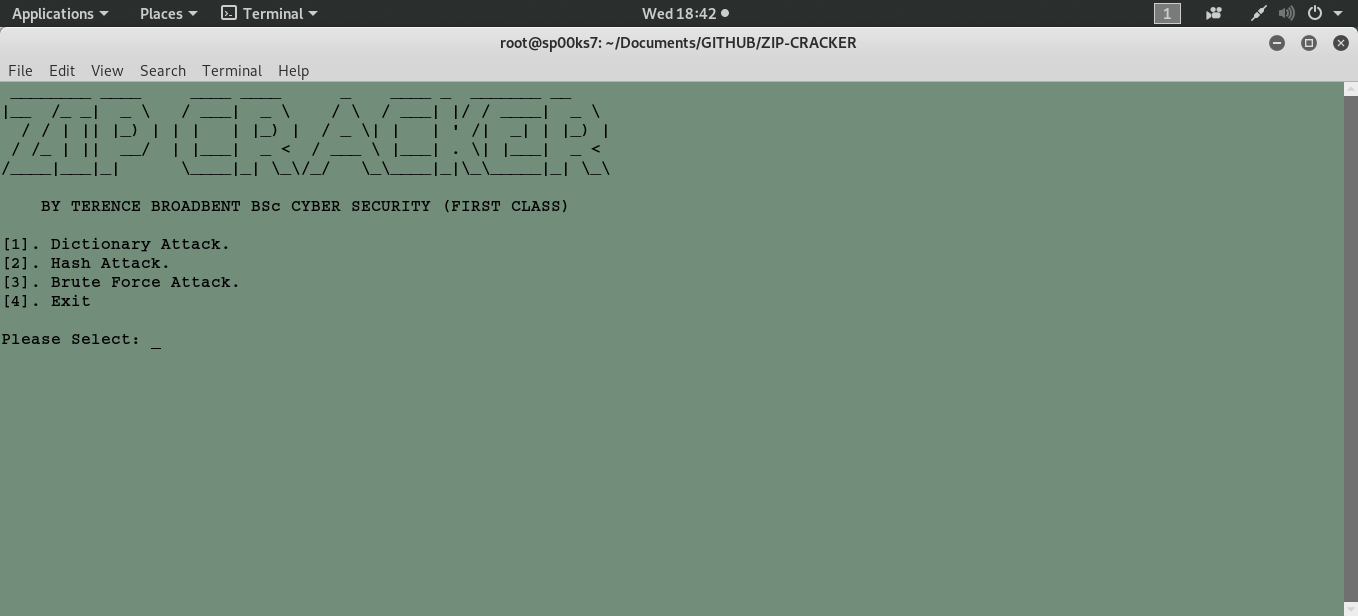
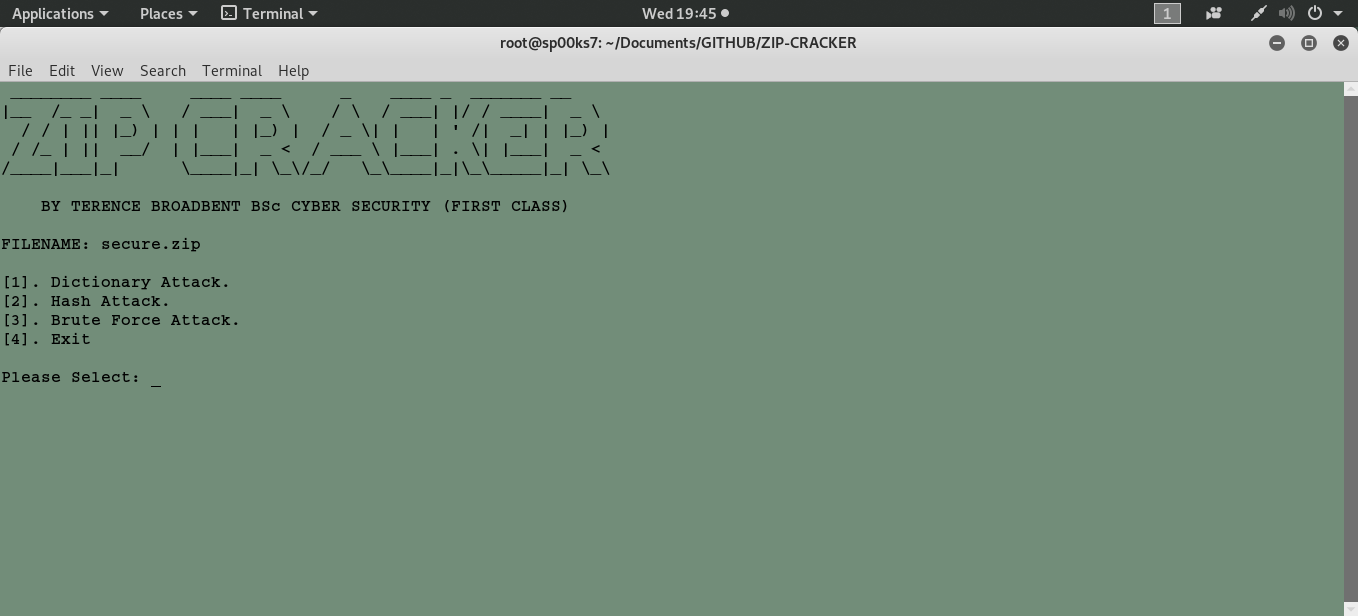
changes

Changed region(s): [[0.0, 0.3701, 0.1856, 0.5552], [0.0, 0.586, 0.0928, 0.6169], [0.4948, 0.0, 0.5258, 0.0308]]

diff --git a/zip-cracker.py b/zip-cracker.py
@@ -76,16 +76,17 @@ if installed == False:
 # Modified: N/A                                                               
 # -------------------------------------------------------------------------------------
 
-os.system("clear")
-
-print " ________ ____     ____ ____      _    ____ _  _______ __     "
-print "|__  /_ _|  _ \   / ___|  _ \    / \  / ___| |/ / ____|  _ \  "
-print "  / / | || |_) | | |   | |_) |  / _ \| |   | ' /|  _| | |_) | "
-print " / /_ | ||  __/  | |___|  _ <  / ___ \ |___| . \| |___|  _ <  "
-print "/____|___|_|      \____|_| \_\/_/   \_\____|_|\_\_____|_| \_\ "
-print "                                                              "
-print "    BY TERENCE BROADBENT BSc CYBER SECURITY (FIRST CLASS)     "
-print "                                                              "
+def header ():
+   os.system("clear")
+   print " ________ ____     ____ ____      _    ____ _  _______ __     "
+   print "|__  /_ _|  _ \   / ___|  _ \    / \  / ___| |/ / ____|  _ \  "
+   print "  / / | || |_) | | |   | |_) |  / _ \| |   | ' /|  _| | |_) | "
+   print " / /_ | ||  __/  | |___|  _ <  / ___ \ |___| . \| |___|  _ <  "
+   print "/____|___|_|      \____|_| \_\/_/   \_\____|_|\_\_____|_| \_\ "
+   print "                                                              "
+   print "    BY TERENCE BROADBENT BSc CYBER SECURITY (FIRST CLASS)     "
+   print "                                                              "
+   print "FILENAME: " + filename + ".\n"
 
 # -------------------------------------------------------------------------------------
 # AUTHOR  : Terence Broadbent                                                    
@@ -99,14 +100,16 @@ menu = {}
 menu['[1].']="Dictionary Attack."
 menu['[2].']="Hash Attack."
 menu['[3].']="Brute Force Attack."
-menu['[4].']="Exit"
+menu['[4].']="Exit."
 
 while True: 
+   header()
    options=menu.keys()
    options.sort()
    for entry in options: 
       print entry, menu[entry]
    selection=raw_input("\nPlease Select: ")
+   print ""
 
 # ------------------------------------------------------------------------------------- 
 # AUTHOR  : Terence Broadbent                                                    
@@ -117,20 +120,21 @@ while True:
 # -------------------------------------------------------------------------------------
 
    if selection =='1':
-      print "Crack Selected    : Dictionary attack..."
-      dictionary = "/usr/share/wordlists/rockyou.txt"
+      print "Crack Selected    : Dictionary attack."
+      dictionary = "/usr/share/wordlists/rockyou.txt"		# change as required
       if os.path.isfile(dictionary):
-           print "Using Dictionary  : " + dictionary + "..."
+         print "Crack Dictionary  : " + dictionary + "."
       else:
-          print "System Error      : Dictionary not found..."
-          exit(True)
+         print "System Error      : Dictionary not found."
+         exit(True)
+      print "Crack Status      : Cracking file."
       os.system("fcrackzip -v -D -u -p " + dictionary + " " + filename + " > Answer.txt")
       os.system("awk '/pw ==/{print $NF}' Answer.txt > Password.txt")
       password = open("Password.txt").readline().rstrip()
       if password == "":	
-          print "Crack Status      : Dictionary exhausted...\n"
+         print "Crack Status      : Dictionary exhausted.\n"
       else:      
-          print "File Password     : " + password
+         print "Cracked Password  : " + password + ".\n"
       os.remove('Answer.txt')
       os.remove('Password.txt')
       exit (False)
@@ -144,21 +148,23 @@ while True:
 # -------------------------------------------------------------------------------------
 
    elif selection == '2':
-      print "Crack Selected    : Hash attack..."
-      print "Crack Status      : Creating hash file..."
+      print "Crack Selected    : Hash attack"
+      print "Crack Status      : Creating hash."
       os.system("zip2john " + filename + " > hash.txt 2>&1")
       os.system("sed 1d hash.txt > hash2.txt")
       os.remove('hash.txt')
-      print "Crack Status      : Cracking hash..."
-      os.system("john hash2.txt > dump.txt 2>&1")
-      os.system("john --show hash2.txt > dump.txt")
+      print "Crack Status      : Comparing hash values."
+      os.system("john hash2.txt --pot=pass.txt > dump.txt 2>&1")
+      password = open("pass.txt").readline()
+      a,b =  password.split(':')
+      b = b.replace('\n','')
+      if password == "":
+         print "Crack Status      : Hash crack exhausted.\n"
+      else:
+         print "Cracked Password  : " + b + "."
       os.remove('hash2.txt')
-      password = open("dump.txt").readline()
-      password = password.replace(filename,'')
-      password = password.replace(':',' ')
-      password = password.replace('/','')
-      print "File Password     : " + password
       os.remove('dump.txt')
+      os.remove('pass.txt')
       exit (False)
 
 # ------------------------------------------------------------------------------------- 
@@ -170,26 +176,24 @@ while True:
 # -------------------------------------------------------------------------------------
 
    elif selection == '3':
-      cracked = False
-      print "Crack Selected    : Brute force attack"
-      print "Crack Status      : Conducting numeric attack first - please wait..."
+      print "Crack Selected    : Brute force attack (1-8 characters)."
+      print "Crack Status      : Conducting numeric attack first."
       os.system("fcrackzip -c 1 -m zip1 -l 1-8 -u " + filename + " > Answer.txt")
       os.system("awk '/pw ==/{print $NF}' Answer.txt > Password.txt")
       password = open("Password.txt").readline().rstrip()
       if password == "":	
-         print "Crack Status      : Numeric bruteforce exhausted..."
+         print "Crack Status      : Numeric bruteforce exhausted."
       else:      
-         print "Found Password    : " + password
-         cracked = True
-      if cracked == False:
-         print "Crack Status      : Now trying alphanumeric - please wait..."
+         print "Cracked Password  : " + password + ".\n"
+      if password == "":
+         print "Crack Status      : Now trying alphanumeric"
          os.system("fcrackzip -m zip1 -l 1-8 -u " + filename + " > Answer.txt")
          os.system("awk '/pw ==/{print $NF}' Answer.txt > Password.txt")
          password = open("Password.txt").readline().rstrip()
          if password == "":	
-            print "Crack Status      : Alphanumeric bruteforce exhausted..."
+            print "Crack Status      : Alphanumeric bruteforce exhausted.\n"
          else:      
-            print "Found Password    : " + password
+            print "Cracked Password  : " + password + ".\n"
       os.remove('Answer.txt')
       os.remove('Password.txt')
       exit (False)
@@ -204,16 +208,4 @@ while True:
 
    elif selection == '4': 
       exit(False)
-
-# ------------------------------------------------------------------------------------- 
-# AUTHOR  : Terence Broadbent                                                    
-# CONTRACT: GitHub                                                               
-# Version : 3.0                                                                
-# Details : Catch all other entries.
-# Modified: N/A
-# -------------------------------------------------------------------------------------
-
-   else:
-      print "\nOption not available...\n"
-
 #Eof
